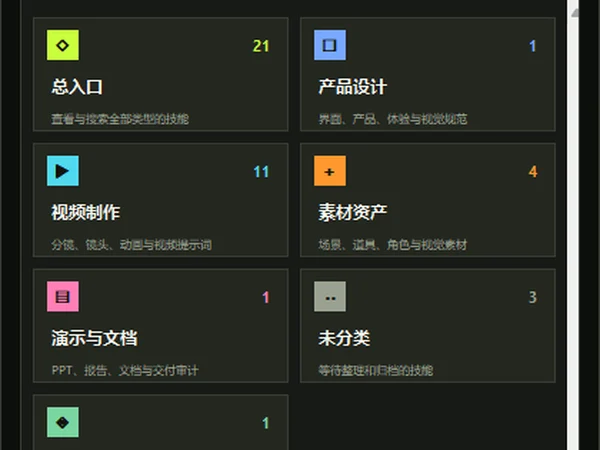
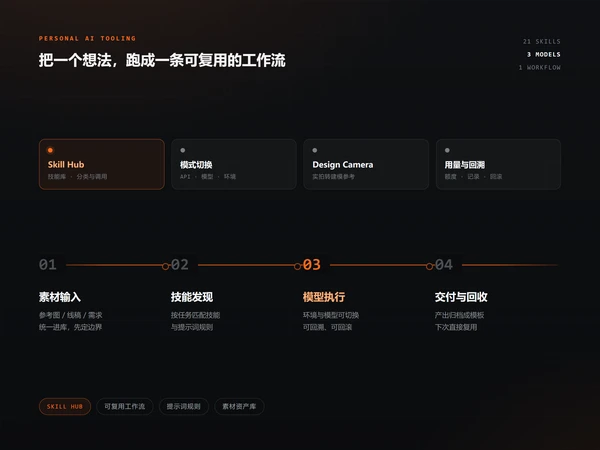
More Work 02 改为自绘封面：工具模块行 + 01-04 工作流管线（HTML/CSS 绘制，非截图）

diff --git a/assets/js/site.js b/assets/js/site.js
@@ -4,7 +4,7 @@
    ============================================================ */
 (function () {
   'use strict';
-  window.__siteBuild = 'v52-mw-lock-moon-tools';   /* 构建标记：排查缓存用 */
+  window.__siteBuild = 'v53-tools-cover-designed';   /* 构建标记：排查缓存用 */
   var reduce = window.matchMedia('(prefers-reduced-motion: reduce)');
   var isMobile = function () { return window.innerWidth <= 720; };
 
